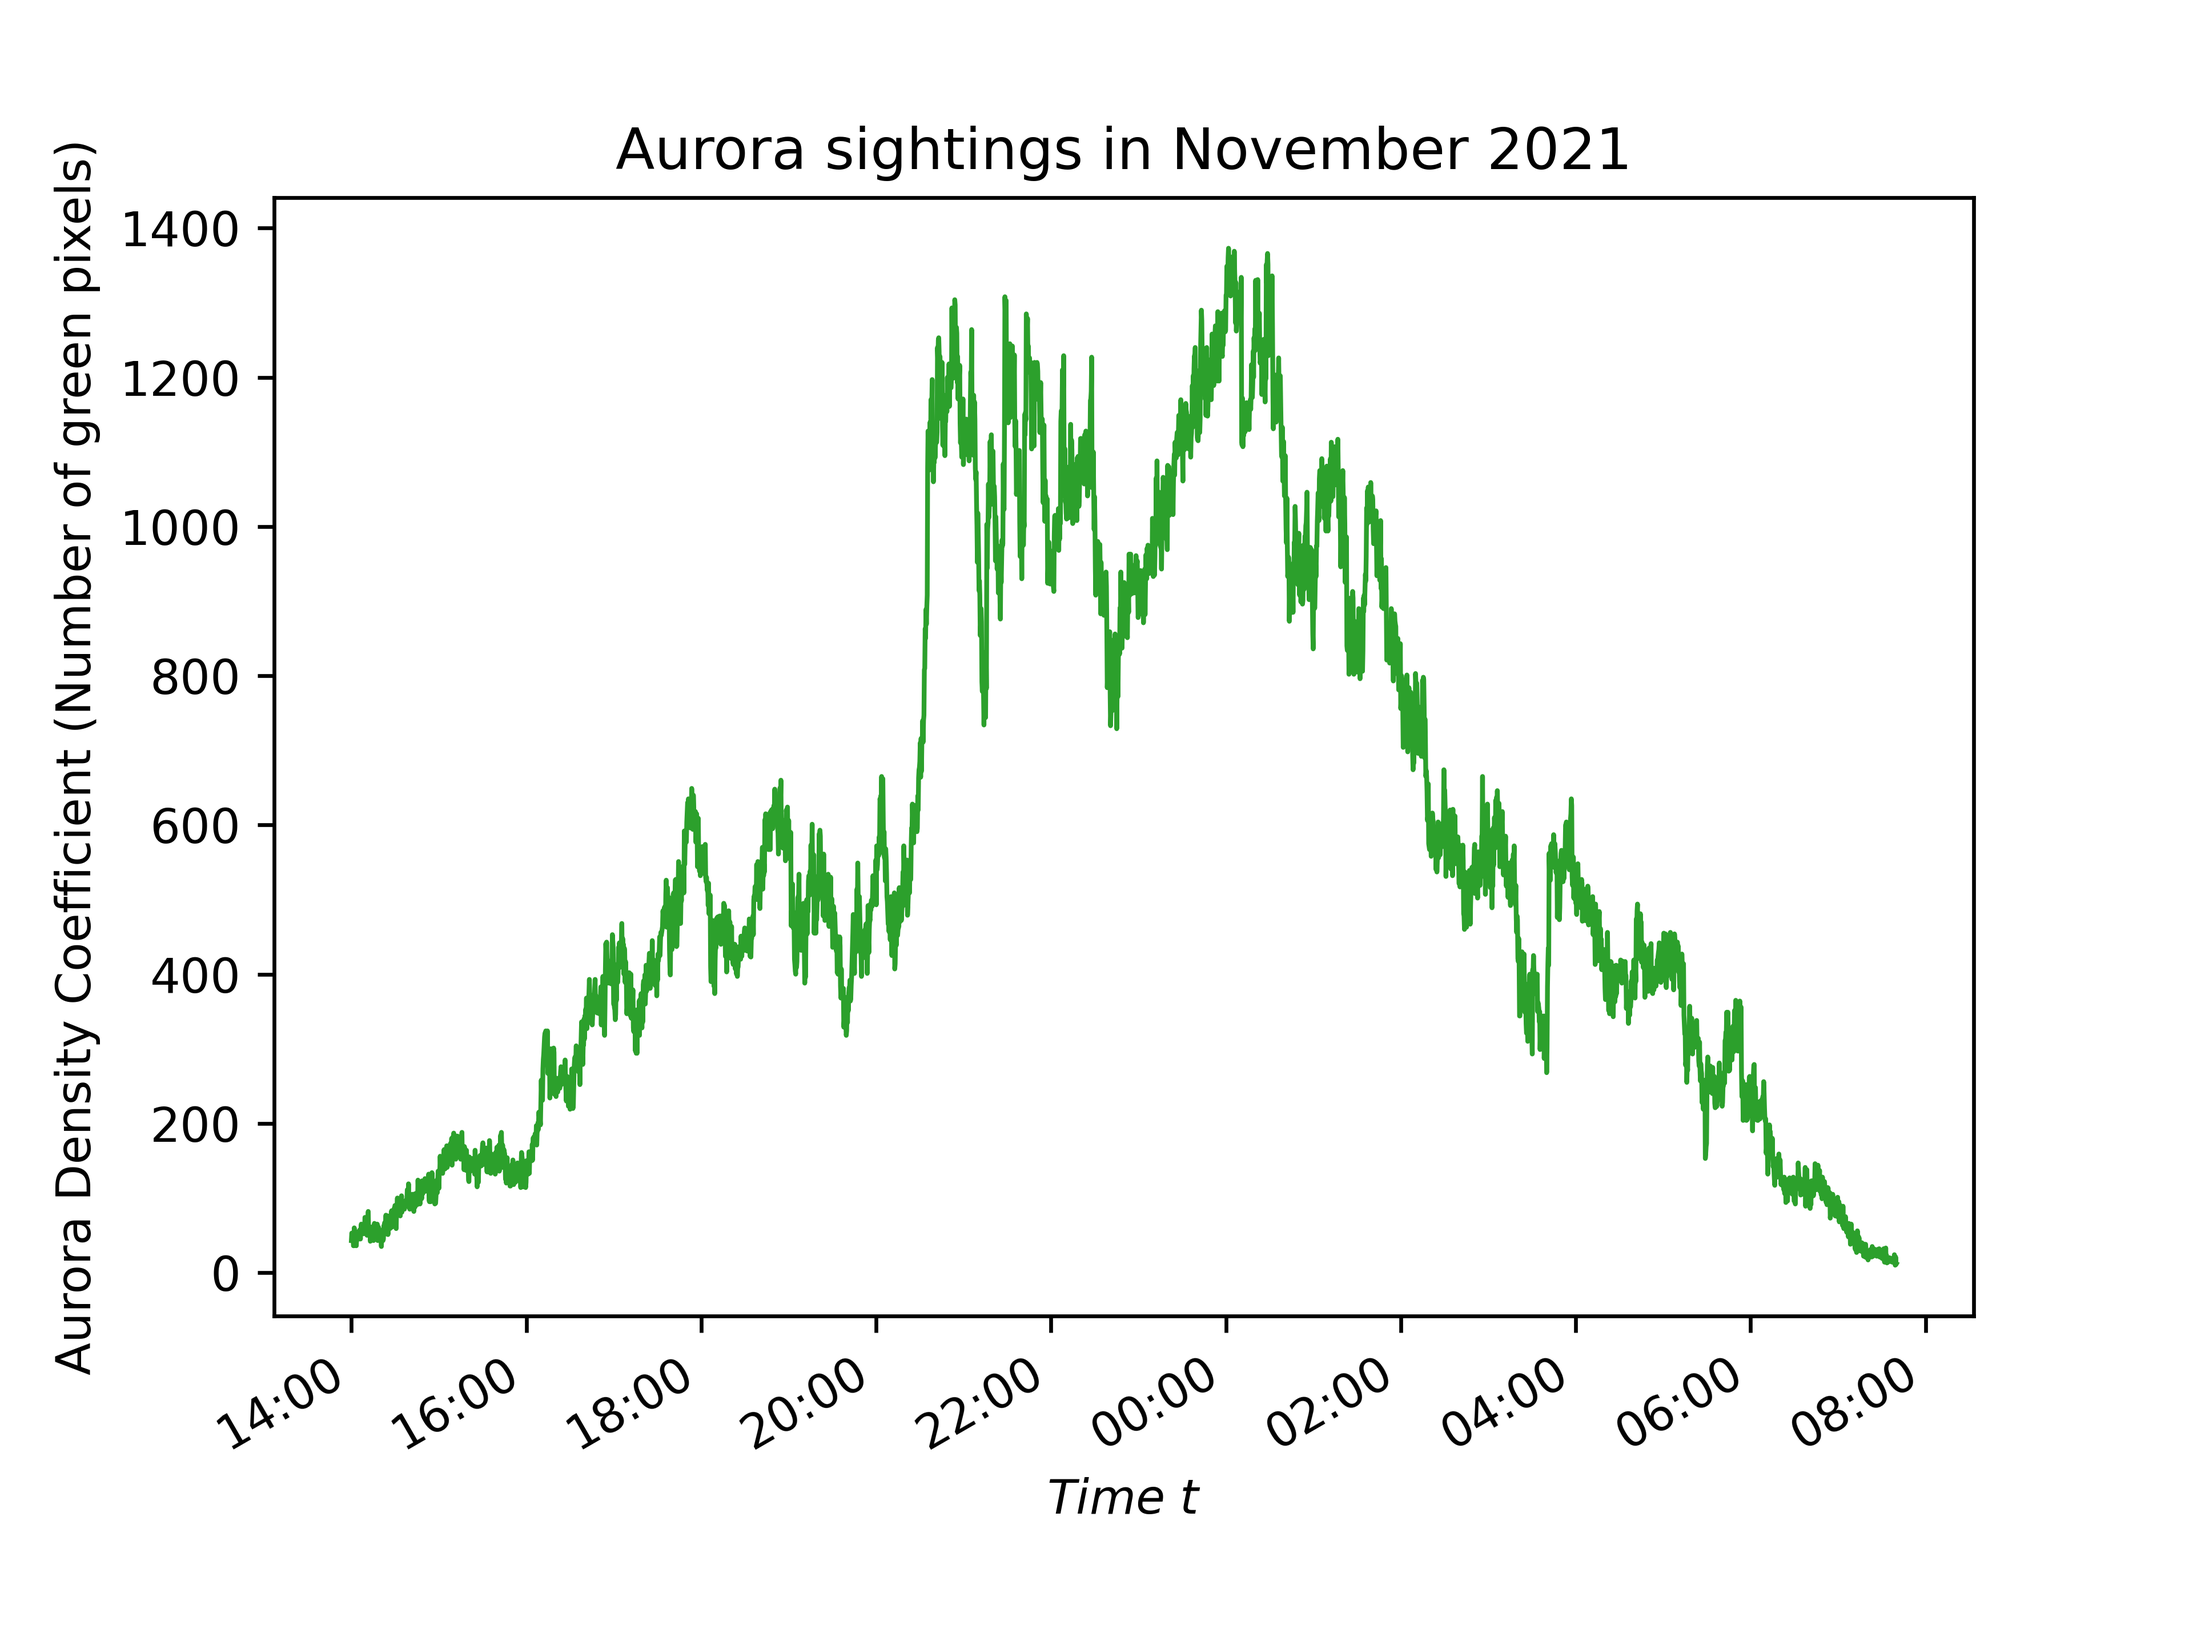
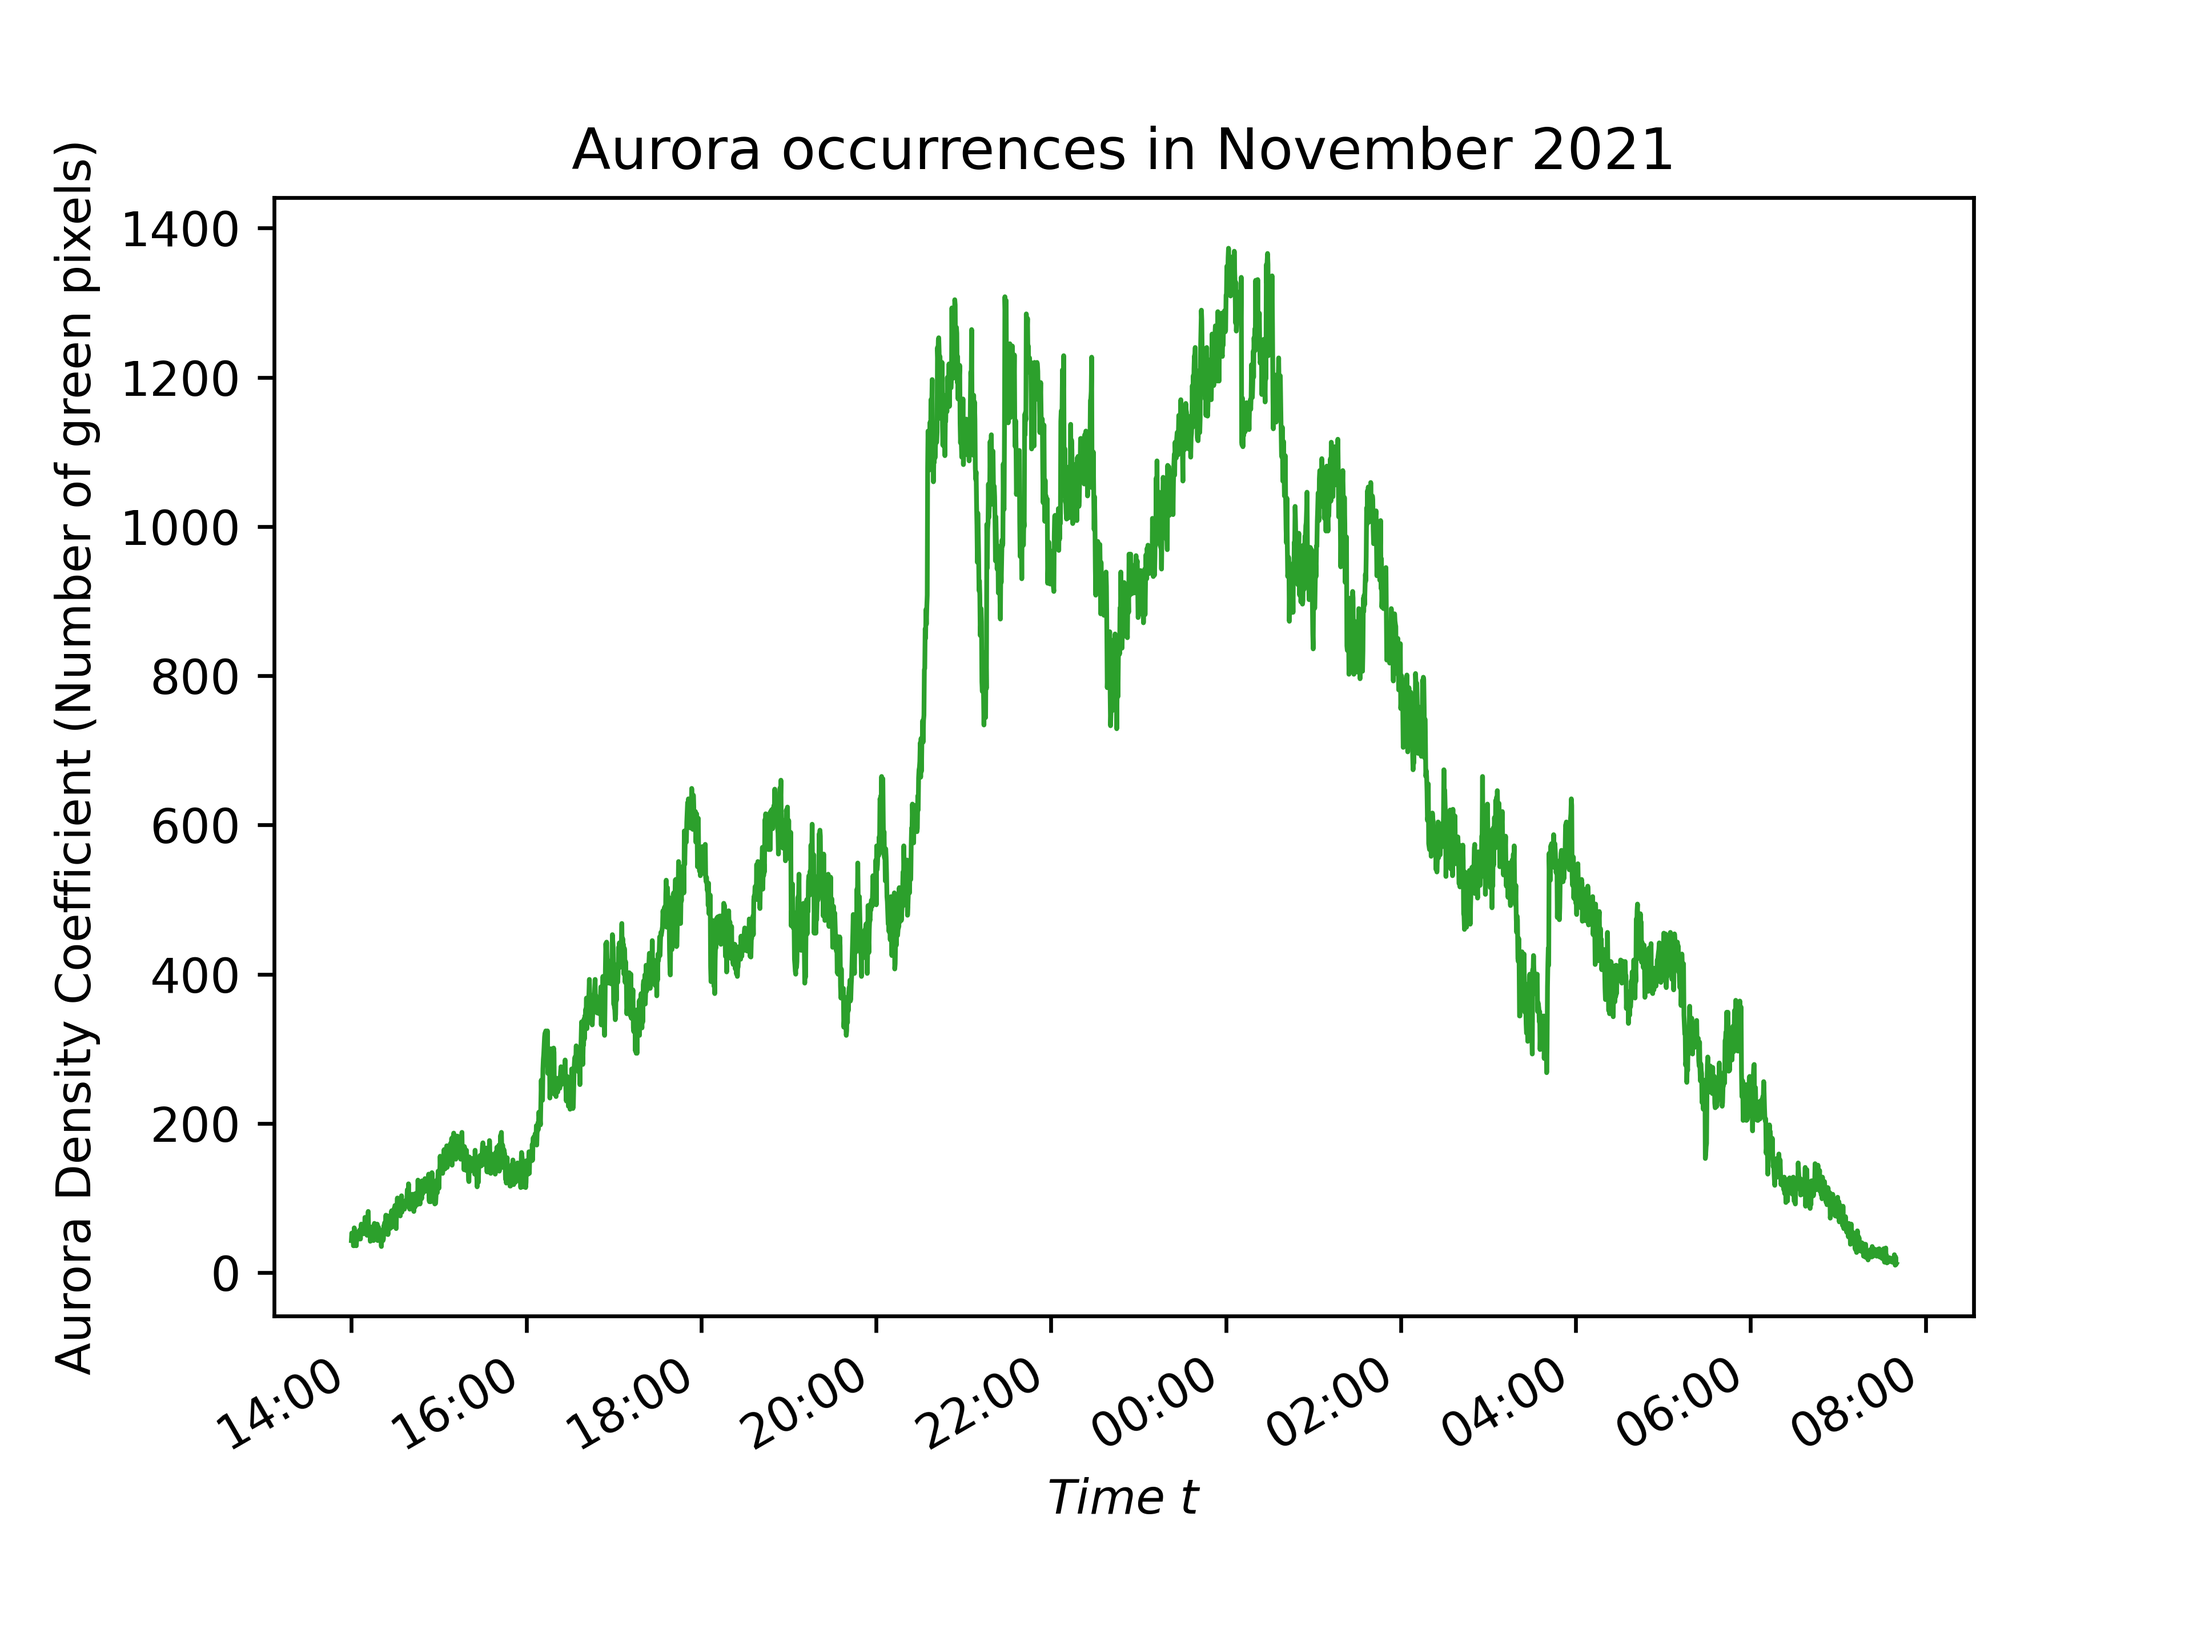
fix title

Changed region(s): [[0.2812, 0.0625, 0.75, 0.125]]

diff --git a/aurora.py b/aurora.py
@@ -49,7 +49,7 @@ class Aurora:
         t = [datetime.combine(date(2021, 11, 1), self.starttime) + timedelta(minutes=i) for i in timerange]
         print(t)
         fig, axes = plt.subplots()
-        plt.title('Aurora sightings in November 2021')
+        plt.title('Aurora occurrences in November 2021')
         axes.plot(t, self.n_green_pixels, color='tab:green', lw=1)
         xformatter = mdates.DateFormatter('%H:%M')
         Axis.set_major_formatter(axes.xaxis, xformatter)
@@ -68,4 +68,5 @@ class Aurora:
 
 if __name__=="__main__":
     aurora = Aurora(sys.argv[1])
+
 
